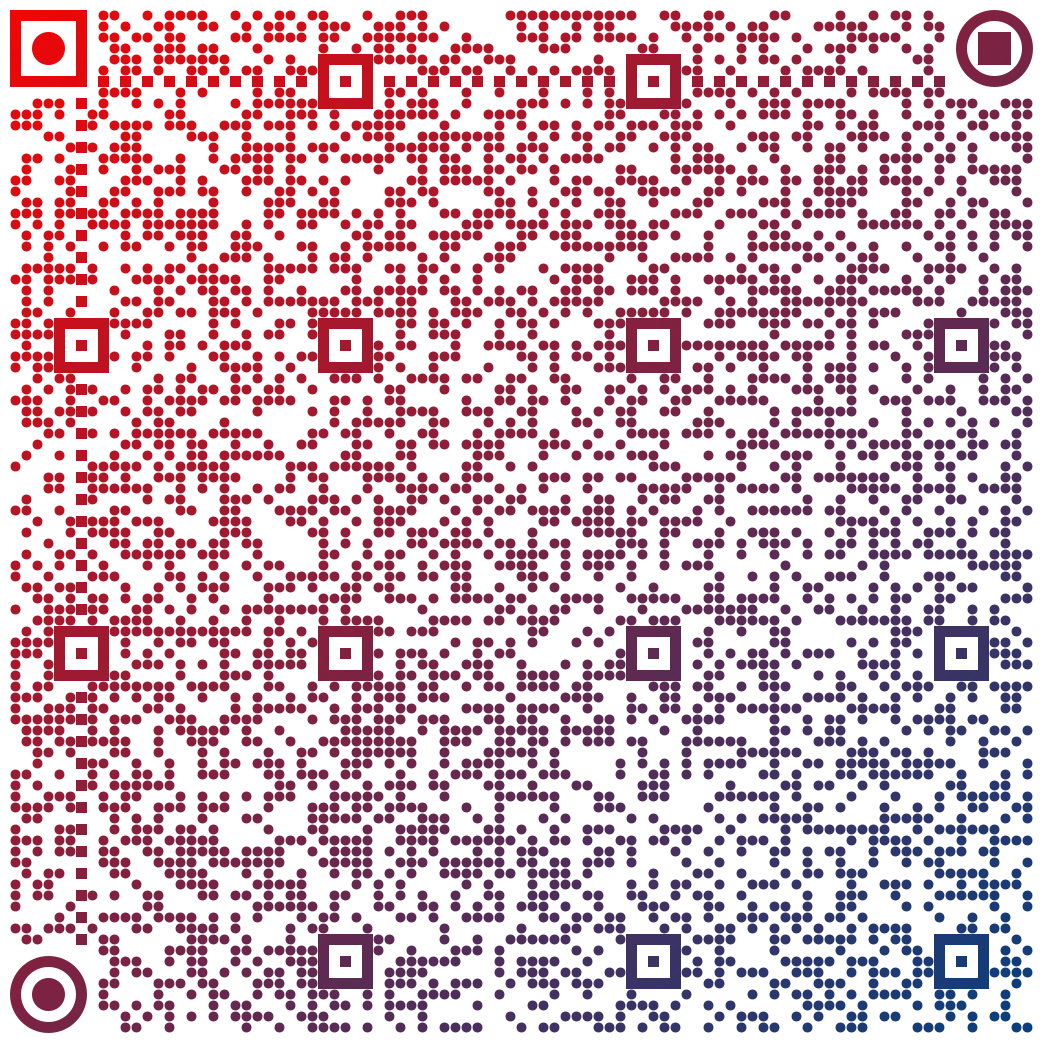
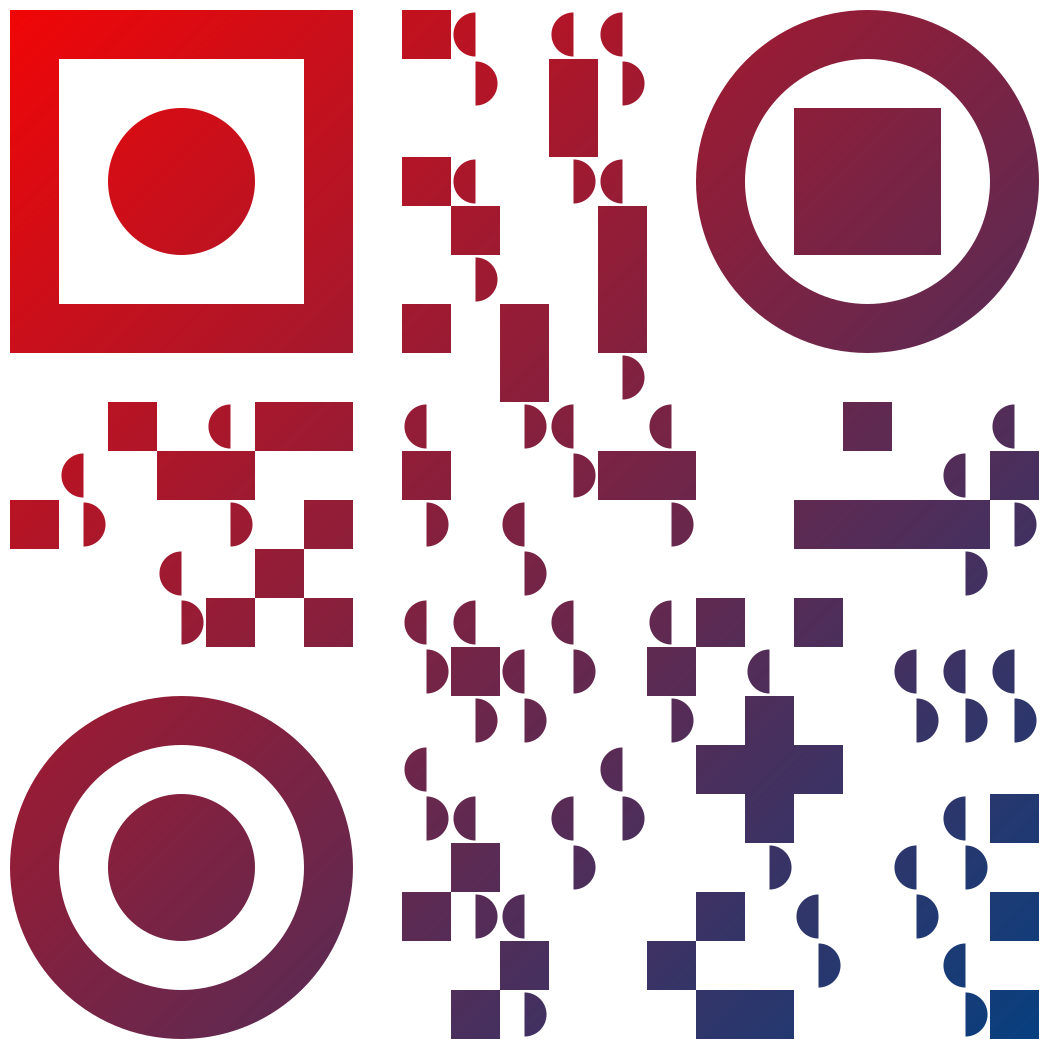
line-x problem

diff --git a/index.js b/index.js
@@ -40,9 +40,6 @@ const win = new JSDOM().window;
 
 // koushik start 
 
-eyeimg = new Image();
-// eyeimg.src = "eye.png"
-eyeimg.src = "gollaNoBg.png";
 
 
 // koushik end
@@ -1357,19 +1354,51 @@ Drawing.prototype.draw = function(oQRCode) {
                             // Data of the qr code 
                             if(_htOption.dotType=="circ"){
                                 _oContext.beginPath();
-                                // console.log(nLeft + nWidth * (1 - nowDotScale) / 2, 
-                                // nTop ,
-                                // nWidth,
-                                // nHeight );
                                 _oContext.arc(
                                     (nLeft+(nWidth/2)),
                                     (nTop+(nHeight/2)),
                                     (nWidth*.9)/2,
                                     0,
-                                    360);
+                                    Math.PI*2);
                                 _oContext.fill();
-
-                            }else{
+                            }else if(_htOption.dotType=="line-x"){
+                                // unable to get the state of the next dot 
+                                let left = row==0 ? false : oQRCode.isDark(row-1,col);
+                                let right = row==nCount-1 ? false : oQRCode.isDark(row+1,col);
+                                console.log(row,col,left,right);
+                                if(left && right){
+                                    _oContext.fillRect(nLeft + nWidth * (1 - nowDotScale) / 2, _htOption.titleHeight +
+                                    nTop +
+                                    nHeight * (1 -
+                                        nowDotScale) / 2, nWidth * nowDotScale, nHeight * nowDotScale);
+                                }else if(right){
+                                    _oContext.beginPath();
+                                    _oContext.arc(
+                                        (nLeft+(nWidth/2)),
+                                        (nTop+(nHeight/2)),
+                                        (nWidth*.9)/2,
+                                        Math.PI*1.5,
+                                        Math.PI*0.5,
+                                        true);
+                                    _oContext.fill();
+                                }else if(left){
+                                    _oContext.beginPath();
+                                    _oContext.arc(
+                                        (nLeft+(nWidth/2)),
+                                        (nTop+(nHeight/2)),
+                                        (nWidth*.9)/2,
+                                        Math.PI*1.5,
+                                        Math.PI*0.5,
+                                        false);
+                                    _oContext.fill();
+                                }else {
+                                    _oContext.fillRect(nLeft + nWidth * (1 - nowDotScale) / 2, _htOption.titleHeight +
+                                    nTop +
+                                    nHeight * (1 -
+                                        nowDotScale) / 2, nWidth * nowDotScale, nHeight * nowDotScale);
+                                }
+                            }
+                            else{
                                 _oContext.fillRect(nLeft + nWidth * (1 - nowDotScale) / 2, _htOption.titleHeight +
                                 nTop +
                                 nHeight * (1 -
@@ -1388,20 +1417,15 @@ Drawing.prototype.draw = function(oQRCode) {
             }
         }
 
-        // working prototype do not delete
 
-        // _oContext.drawImage(eyeimg,0,0,((7)*nWidth),((7)*nWidth));
-        // _oContext.drawImage(eyeimg,((nCount-7)*nWidth),0,((7)*nWidth),((7)*nWidth));
-        // _oContext.drawImage(eyeimg,0,((nCount-7)*nWidth),((7)*nWidth),((7)*nWidth));
-        
-        // working prototype do not delete
-
-        // test going on
+        // working 
+        // going on
 
         // console.log(nCount,nWidth,);
         let clr = _htOption.gradient ? gradient : dColor;
         _oContext.strokeStyle = clr;
         _oContext.fillStyle = clr;
+        _oContext.beginPath();
         // _oContext.color = 'red';
         _oContext.lineWidth = nWidth;
         _oContext.strokeRect(0+(nWidth/2)+_htOption.quietZone,0+(nWidth/2)+_htOption.quietZone,((6)*nWidth),((6)*nWidth));

diff --git a/create.js b/create.js
@@ -1,15 +1,16 @@
 const QRCode = require('./index.js');
 
 
-const text = "British logistics played a key role in the success of Operation Overlord, the Allied invasion of France in June 1944. The objective of the campaign was to secure a lodgement on the mainland of Europe for further operations. The Allies had to land sufficient forces to overcome the initial opposition and build it";
-// const text = " hello world!";
+// const text = "British logistics played a key role in the success of Operation Overlord, the Allied invasion of France in June 1944. The objective of the campaign was to secure a lodgement on the mainland of Europe for further operations. The Allies had to land sufficient forces to overcome the initial opposition and build it";
+const text = "hello";
 // console.log(text.length);
 // Options
 var options = {
 	width: 1024,
     height: 1024,
 	text: text,
-	dotType:"circ",
+	dotType:"line-x",
+	// colorDark:"red",
 	gradient:true,
 	quietZone:10,
 	// logo: "instagram.png",
